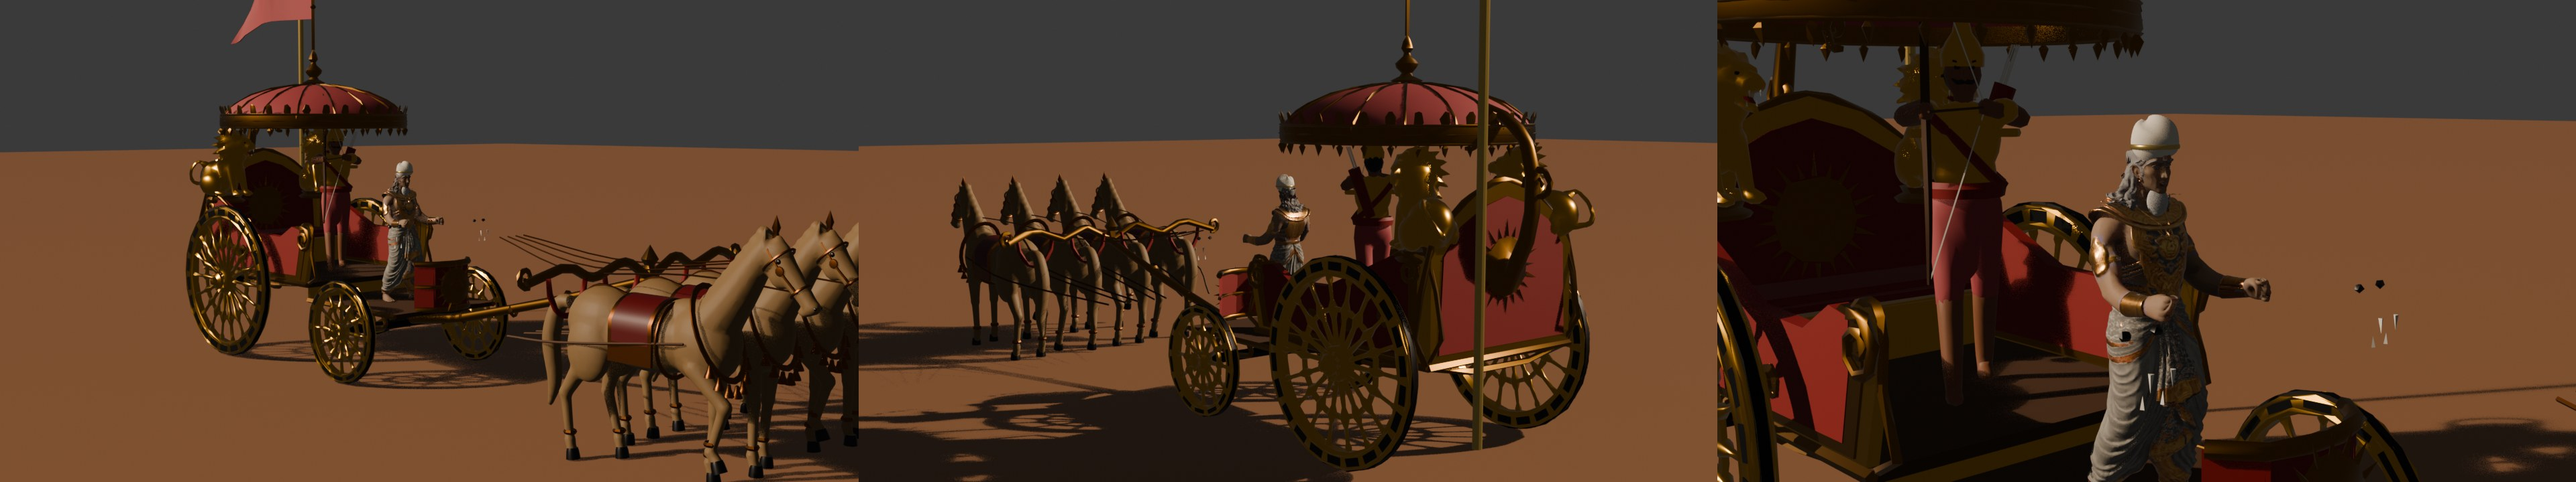
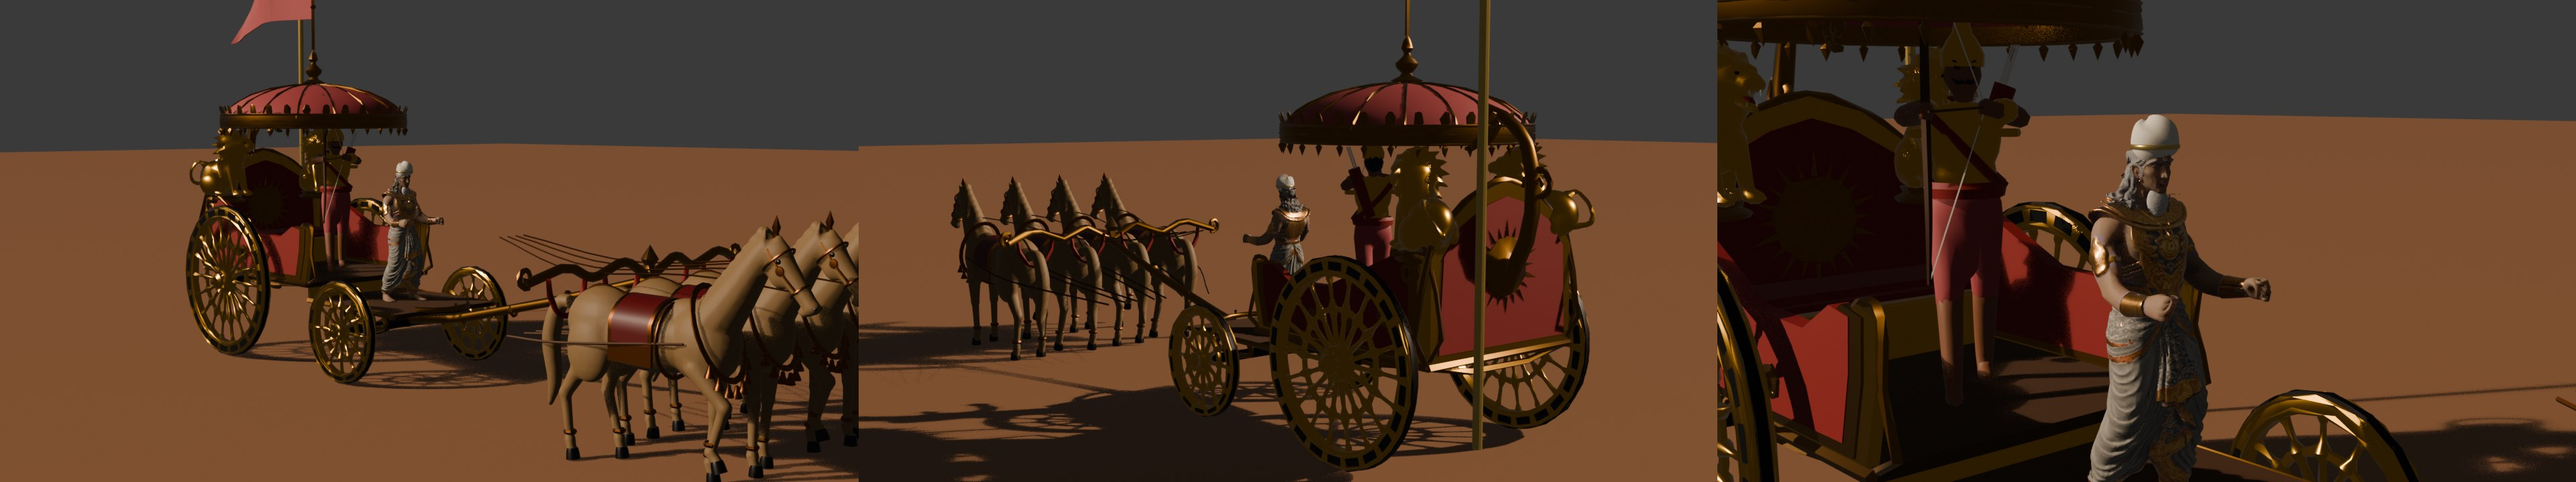
Shalya check: cut every loose part of the kit driver; lock Shakuntala lines 1, 3, 7, 10
Claude-Session: https://claude.ai/code/session_01PKcboZPFsQWB6hA3KBm3Yg

diff --git a/studio/tools/blender/shalya_chariot_check.py b/studio/tools/blender/shalya_chariot_check.py
@@ -39,19 +39,24 @@ for m in ch.data.materials:
 hs.parent = ch; hs.location = (0, -(ch.dimensions.y * 0.5 + hs.dimensions.y * 0.5) + 4.5, 0)
 std = banners.make("elephant_rope", height=7.0); std.parent = ch; std.location = (1.25, 2.9, 0.6)
 
-# cut the kit's own driver (the loose parts standing at the front of the car)
+# cut the kit's own driver: every loose part on the front of the car (body, bow, reins, the two lion figureheads that hid the driver)
 bm = bmesh.new(); bm.from_mesh(ch.data); bm.verts.ensure_lookup_table()
-seed = [v for v in bm.verts if abs(v.co.x) < 0.8 and -1.6 < v.co.y < -0.4 and 0.95 < v.co.z < 2.8]
-part, stack = set(), list(seed)
-while stack:
-    v = stack.pop()
-    if v in part:
+seen, cut = set(), []
+for v0 in bm.verts:
+    if v0 in seen:
         continue
-    part.add(v); stack.extend(e.other_vert(v) for e in v.link_edges)
-if 0 < len(part) < 0.2 * len(bm.verts):
-    bmesh.ops.delete(bm, geom=list(part), context="VERTS"); print("cut kit driver verts", len(part))
-else:
-    print("kit driver not cut (connected to the car):", len(part), "of", len(bm.verts))
+    part, stack = [], [v0]
+    while stack:
+        v = stack.pop()
+        if v in seen:
+            continue
+        seen.add(v); part.append(v); stack.extend(e.other_vert(v) for e in v.link_edges)
+    xs = [v.co.x for v in part]; ys = [v.co.y for v in part]; zs = [v.co.z for v in part]
+    c = Vector((sum(xs), sum(ys), sum(zs))) / len(part)
+    size = max(max(xs) - min(xs), max(ys) - min(ys), max(zs) - min(zs))
+    if abs(c.x) < 1.2 and -2.2 < c.y < -0.3 and 0.9 < c.z < 3.0 and size < 2.2:
+        cut.extend(part)
+bmesh.ops.delete(bm, geom=cut, context="VERTS"); print("cut kit driver verts", len(cut))
 bm.to_mesh(ch.data); bm.free()
 
 h = Hero.load(STUDIO / "cast/shalya/model/rig/shalya_hero_v1.blend", "SHALYA", loc=(0, -1.0, 0.84), face=0)

diff --git a/studio/episodes/s1e01_the_scribe/shakuntala_lines.md b/studio/episodes/s1e01_the_scribe/shakuntala_lines.md
@@ -31,7 +31,9 @@ Below are 10 candidates, quoted exactly from Ganguli with their line numbers. Th
 9. "A hundred horse-sacrifices had once been weighed against Truth, and Truth was found heavier than a hundred horse-sacrifices." (9266-9268)
 10. "Truth is God himself; Truth is the highest vow. Therefore, violate not thy pledge, O monarch! ... this son of mine shall rule the whole Earth surrounded by the four seas." (9269-9276)
 
-## Recommended set (about 25 seconds)
+## Chosen set (about 25 seconds)
+
+sai left the choice to Claude on 2026-11-26 ("u do what u think it right with reason"). The set below is now locked for scene 14.
 
 **1, 3, 7 and 10**, in that order.
 

diff --git a/studio/episodes/s1e01_the_scribe/canon_check.md b/studio/episodes/s1e01_the_scribe/canon_check.md
@@ -65,4 +65,4 @@ Each needs a passport in `cast/` and a model sheet, made the same way as the loc
 
 - [ ] sai agrees with the 15 scenes and their verdicts.
 - [x] sai decided on Ganesha's tusk: keep it, marked as added (2026-11-26).
-- [ ] sai picks the three or four lines of Shakuntala's speech for scene 14. Shortlist in `shakuntala_lines.md` (recommended: 1, 3, 7, 10).
+- [x] Shakuntala's lines for scene 14: 1, 3, 7 and 10 (sai left it to Claude, 2026-11-26). Shortlist in `shakuntala_lines.md` (recommended: 1, 3, 7, 10).

diff --git a/studio/cast/shalya/passport.md b/studio/cast/shalya/passport.md
@@ -17,4 +17,4 @@ Shalya, Karna's charioteer, an older Indian king with warm brown skin, an iron-g
 - **Known limits of v1:**
   - The turban and beard are simple shapes.
   - The face is Krishna's face shape, which is why he stays out of close-ups.
-  - The kit chariot's old driver has been cut out, but a few small leftover bits still float near the front rail.
+  - The kit chariot's old driver, his bow and the two lion figureheads in front of him are cut out; no leftover bits.
